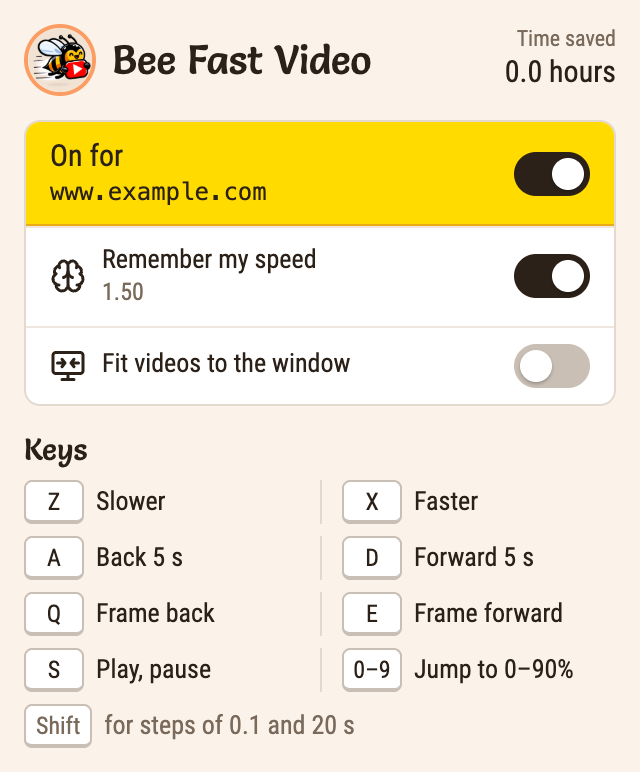
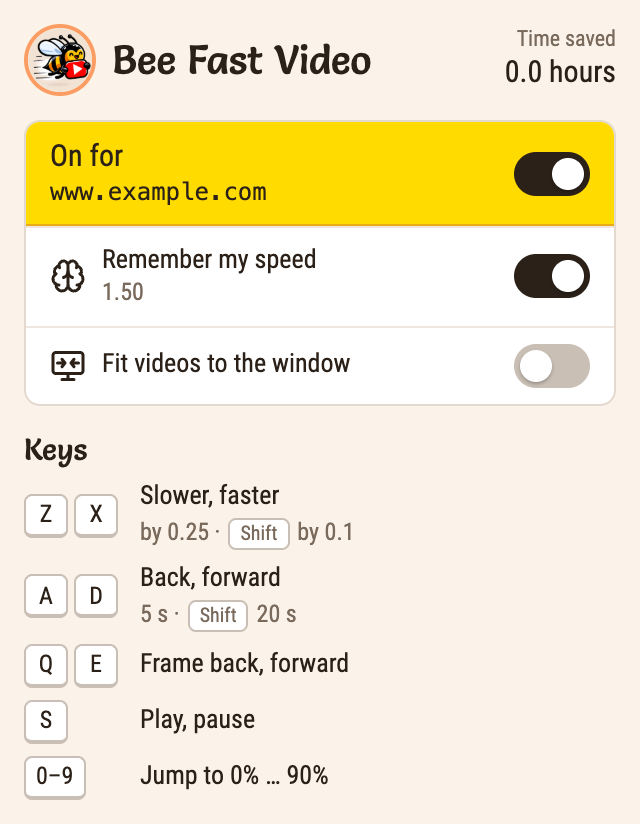
Show opposite keys as one pair, with what Shift does right under it
- Each pair of opposite keys is one row: both keys side by side, then one action ("Slower, faster"). Two columns of single keys hid that Z and X belong together.
- The step and the Shift step sit under the action they change ("by 0.25 · Shift by 0.1"), instead of in a separate line at the bottom.
- 0-9 is one key, since it's a range.
- README describes the new list.

Checked: npm run check, npm test (54), npm run test:e2e (36 in Chrome, 36 in Firefox), and the new docs/popup.png.

diff --git a/entrypoints/popup/Popup.tsx b/entrypoints/popup/Popup.tsx
@@ -5,25 +5,15 @@ import iconLarge from "@/assets/icon-large.png"
 import { formatHours, formatPlaybackRate } from "@/utils/format-time"
 import { GET_SPEED, useSettings, useTotalSavedSeconds } from "@/utils/settings"
 
-// Written by hand: keep in sync with `keyActions` in `shortcuts.ts`. Keys that do opposite things share a row.
+// Written by hand: keep in sync with `keyActions` in `shortcuts.ts`. Opposite keys share a row, and the step under
+// it says what Shift changes.
 
-const KEYS: Array<Array<{ key: string; action: string }>> = [
-  [
-    { key: "Z", action: "Slower" },
-    { key: "X", action: "Faster" },
-  ],
-  [
-    { key: "A", action: "Back 5 s" },
-    { key: "D", action: "Forward 5 s" },
-  ],
-  [
-    { key: "Q", action: "Frame back" },
-    { key: "E", action: "Frame forward" },
-  ],
-  [
-    { key: "S", action: "Play, pause" },
-    { key: "0–9", action: "Jump to 0–90%" },
-  ],
+const KEYS: Array<{ keys: Array<string>; action: string; step?: string; shiftStep?: string }> = [
+  { keys: ["Z", "X"], action: "Slower, faster", step: "by 0.25", shiftStep: "by 0.1" },
+  { keys: ["A", "D"], action: "Back, forward", step: "5 s", shiftStep: "20 s" },
+  { keys: ["Q", "E"], action: "Frame back, forward" },
+  { keys: ["S"], action: "Play, pause" },
+  { keys: ["0–9"], action: "Jump to 0% … 90%" },
 ]
 
 /** The speed of the video the keys act on in the active tab, or 1 when there's none. */
@@ -86,23 +76,23 @@ export function Popup() {
         <h2>Keys</h2>
         <ul class="keys">
           <For each={KEYS}>
-            {(row) => (
+            {(item) => (
               <li>
-                <For each={row}>
-                  {(item) => (
-                    <span class="key">
-                      <kbd>{item.key}</kbd>
-                      {item.action}
+                <span class="key-pair">
+                  <For each={item.keys}>{(key) => <kbd>{key}</kbd>}</For>
+                </span>
+                <span class="action">
+                  {item.action}
+                  <Show when={item.step}>
+                    <span class="step">
+                      {item.step} · <kbd>Shift</kbd> {item.shiftStep}
                     </span>
-                  )}
-                </For>
+                  </Show>
+                </span>
               </li>
             )}
           </For>
         </ul>
-        <p class="hint">
-          <kbd>Shift</kbd> for steps of 0.1 and 20 s
-        </p>
       </section>
     </main>
   )

diff --git a/entrypoints/popup/style.css b/entrypoints/popup/style.css
@@ -204,18 +204,12 @@ section:not(.site) {
   }
 }
 
-.hint {
-  display: flex;
-  align-items: center;
-  gap: 6px;
-  color: var(--muted);
-}
-
-/* Two keys a row, opposites side by side. */
+/* Opposite keys side by side, then what they do. */
 .keys {
   display: grid;
-  grid-template-columns: 1fr 1fr;
-  row-gap: 6px;
+  grid-template-columns: 50px 1fr;
+  gap: 6px 8px;
+  align-items: center;
   list-style: none;
 
   li {
@@ -223,14 +217,28 @@ section:not(.site) {
   }
 }
 
-.key {
+.key-pair {
+  display: flex;
+  gap: 3px;
+}
+
+.action {
+  display: flex;
+  flex-direction: column;
+  gap: 2px;
+}
+
+.step {
   display: flex;
   align-items: center;
-  gap: 6px;
+  gap: 4px;
+  font-size: 12px;
+  color: var(--muted);
 
-  & + .key {
-    padding-left: 10px;
-    border-left: 1px solid #e3d9cf;
+  kbd {
+    height: 16px;
+    font-size: 10px;
+    border-bottom-width: 1px;
   }
 }
 
@@ -245,15 +253,9 @@ kbd {
   font-family: inherit;
   font-size: 12px;
   line-height: 1;
+  white-space: nowrap;
   background-color: var(--card);
   border: 1px solid #c9bfb5;
   border-bottom-width: 2px;
   border-radius: 4px;
-
-  /* The same width for all keys in the list, so the actions line up. */
-  .key & {
-    width: 30px;
-    padding: 0;
-    white-space: nowrap;
-  }
 }

diff --git a/README.md b/README.md
@@ -63,7 +63,7 @@ All speed changes the user makes go through one function in `ControllersContaine
 
 ### Popup
 
-The popup has the switches for the current site (on/off, remember my speed, fit videos), the time saved, and the keys, with opposite keys side by side. It fits without scrolling. The panel explains itself through its buttons' tooltips, so the popup doesn't. The key list has to be updated by hand when shortcuts change.
+The popup has the switches for the current site (on/off, remember my speed, fit videos), the time saved, and the keys. Opposite keys share a row, and under it, how far they step with and without Shift. It fits without scrolling. The panel explains itself through its buttons' tooltips, so the popup doesn't. The key list has to be updated by hand when shortcuts change.
 
 The popup can't see the page's videos, so to remember a speed it asks the tab (`GET_SPEED` in `utils/settings.ts`). Only a frame with a shown panel answers, with the speed of the video the keys act on. With no answer, it remembers 1.00.
 
